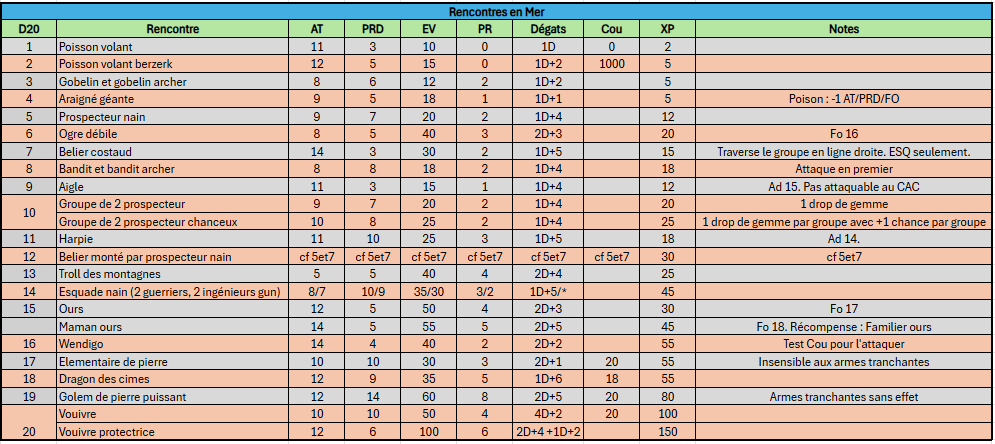
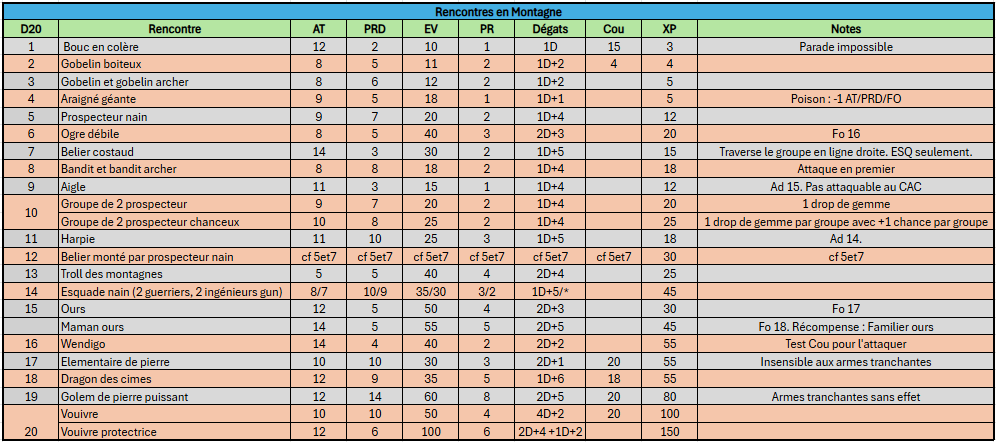
fix : general fixes

Changed region(s): [[0.0, 0.0, 1.0, 1.0]]

diff --git a/src/component/gestion/gestion.component.css b/src/component/gestion/gestion.component.css
@@ -16,6 +16,12 @@
   color: var(--text-main);
 }
 
+p-table::ng-deep{
+  
+  width: 100%;
+  overflow-y: scroll;
+}
+
 .p-datatable-thead > tr > th {
   background-color: var(--bg-secondary);
   color: var(--accent);
@@ -67,6 +73,17 @@
   font-weight: bold;
 }
 
+
+::ng-deep.p-autoComplete{
+    margin-right: 0.5rem;
+}
+
+::ng-deep .p-overlay{
+  background-color: var(--bg-main);
+  color: var(--text-main);
+}
+
+
 /* --- P-BUTTON --- */
 
 .stats-handler{
@@ -111,10 +128,53 @@
   margin-left: 1rem;
 }
 
+.block-flex {
+  display: flex;
+  gap: 2rem;
+  flex-wrap: wrap;
+}
+
 .div-flex {
   display: flex;
   gap: 2rem;
   flex-wrap: wrap;
+  justify-content: space-between;
+  width: 25rem;
+  margin-bottom: 1rem;
+}
+
+.textAsNumberStyle{
+      background-color: var(--bg-secondary);
+    color: var(--text-main);
+    border: 1px solid var(--border);
+    padding: 0.5rem 1rem;
+    border-radius: 6px;
+    font-size: 1rem;
+    width: 13rem;
+    transition: all 0.2s ease;
+    font-family: inherit;
+    box-sizing: border-box;
+}
+
+
+p-dropdown{
+  background-color: var(--bg-secondary);
+    color: var(--text-main);
+    border: 1px solid var(--border);
+    padding: 0.5rem 1rem;
+    border-radius: 6px;
+    font-size: 1rem;
+    width: 13rem;
+    transition: all 0.2s 
+ease;
+    font-family: inherit;
+}
+::ng-deep.p-dropdown{
+    width: 13rem;
+}
+
+::ng-deep.p-dropdown-label{
+    width: 13rem;
 }
 
 .mw-20 {
@@ -124,13 +184,6 @@
 .row{
   flex-direction: row;
 }
-
-
-/* === SIDEBAR STYLING === */
-
-::ng-deep .p-sidebar {
-  background-color: var(--bg-main);
-  color: var(--text-main);
-  border-left: 1px solid var(--border);
-  padding: 2rem;
+p-inputnumber.no-margin::ng-deep{
+  display: contents;
 }

diff --git a/src/component/gestion/gestion.component.html b/src/component/gestion/gestion.component.html
@@ -28,6 +28,7 @@
     <p-button class="m-2" (onClick)="triggerAjouter($event)" label="Hero" icon="pi pi-plus" />
     <p-button class="m-2" (onClick)="goToCombat()" label="Combat" icon="pi pi-caret-right" />
     <p-button class="m-2" (onClick)="triggerAjouterStats($event)" label="Ajouter statistique" icon="pi pi-chart-line" />
+    <p-button class="m-2" (onClick)="resetStorage()" label="Vider le cache" icon="pi pi-exclamation-triangle" />
     </div></div>
             </ng-template>
             <ng-template pTemplate>
@@ -41,7 +42,7 @@
                     <div class="stats-handler"><span class="text-bold">Morts</span> {{ hero['morts']}} <p-button (onClick)="addMort(hero['nom'])" icon="pi pi-plus" class="bt-sm" /> </div>
                     <div>
                         <h3>Equipements</h3>
-                        <div class="div-flex">
+                        <div class="block-flex">
                             <div>
                                 <h4> Equipé </h4>
                                 <div *ngFor="let arme of (armes$ | async)?.armes ??[] | shouldBeEquipe : true">
@@ -74,7 +75,7 @@
             </ng-template>
         </p-splitter>
     </p-tabPanel>
-    <p-tabPanel *ngFor="let joueur of (joueurs ?? [])" [header]="joueur.code">
+    <p-tabPanel *ngFor="let joueur of (joueurs)" [header]="joueur.code">
         <p-splitter [style]="{'height': '40rem'}">
             <ng-template pTemplate>
                 <p-table responsiveLayout="scroll" [scrollable]="true" [tableStyle]="{'min-width':'30rem'}" [value]="(allHeros$ | async) ?? [] | hero:joueur.code">
@@ -111,9 +112,9 @@
         </p-splitter>
     </p-tabPanel>
 </p-tabView>
-<p-sidebar [(visible)]="sidebarVisible">
+<app-sidebar [(visible)]="sidebarVisible">
     <div class="add-panel">
-            <div class="mt-2">
+            <div class="mt-2 div-flex row">
                 <span>Joueur : </span>
                 <p-dropdown 
                 [options]="joueurs" 
@@ -124,11 +125,11 @@
                 placeholder="Joueur"
                 class="w-12" />
             </div>
-            <div class="mt-2">
+            <div class="mt-2 div-flex row">
                 <span>Nom :  </span>
-                <input type="text" pInputText [(ngModel)]="addNom" />
+                <input type="text" class="textAsNumberStyle" pInputText [(ngModel)]="addNom" />
             </div>
-            <div class="mt-2">
+            <div class="mt-2 div-flex row">
                 <span>Origine :  </span>
                 <p-autoComplete
                 [(ngModel)]="addOrigine"
@@ -139,7 +140,7 @@
                 placeholder="origine"
                 (completeMethod)="search($event)"  />
             </div>
-            <div class="mt-2">
+            <div class="mt-2 div-flex row">
                 <span>Metier :  </span>
                 <p-autoComplete
                 [(ngModel)]="addMetier"
@@ -150,23 +151,24 @@
                 placeholder="origine"
                 (completeMethod)="searchMetier($event)"  />
             </div>
-            <div class="mt-2">
+            <div class="mt-2 div-flex row">
                 <span>Niveau :  </span>
-                <p-inputNumber  [(ngModel)]="addNiveau" name="addNiveau" />
+                <p-inputNumber class="no-margin"  [(ngModel)]="addNiveau" name="addNiveau" />
             </div>
-            <div class="mt-2">
+            <div class="mt-2 div-flex row">
                 <span>Or :  </span>
-                <p-inputNumber [(ngModel)]="addOr" name="addOr"/>
+                <p-inputNumber class="no-margin" [(ngModel)]="addOr" name="addOr"/>
             </div>
-            <div class="mt-2"> 
+            <div class="mt-2 div-flex  row"> 
                 <span>Point de destin : </span>
-                <p-inputNumber  [(ngModel)]="addDestin" name="addDestin"/>
+                <p-inputNumber class="no-margin" [(ngModel)]="addDestin" name="addDestin"/>
             </div>
-            <div class="mt-2"> 
+            
+            <div class="mt-2 div-flex row"> 
                 <p-button (onClick)="valider()" >Valider</p-button>
             </div>
     </div>
-</p-sidebar>
+</app-sidebar>
 <p-sidebar [(visible)]="sidebarStuffVisible">
     <div class="add-panel">
             <div class="mt-2">

diff --git a/src/app/services/hero.service.ts b/src/app/services/hero.service.ts
@@ -19,8 +19,12 @@ export class HerosService {
   
   //#region All
 
+  async resetStorage(){
+    this.storage.clear();
+  }
+
   async getAll(){
-    if(!this.storage.get(StorageKeys.HEROS)){
+    if(!this.storage.get<DocumentData[]>(StorageKeys.HEROS)){
           const heros = (await getDocs(query(collection(this.firestore,'heros')))).docs.map((entries) => entries.data());
           this.storage.set<DocumentData[]>(StorageKeys.HEROS,heros);
     }
@@ -29,9 +33,10 @@ export class HerosService {
   }
 
   async getAllFromSession(){
-    if(!this.storage.get<DocumentData[]>(StorageKeys.HEROS)){
-        await this.getAll();
-    }
+     if(!this.storage.get<DocumentData[]>(StorageKeys.HEROS)){
+         await this.getAll();
+     }
+    await this.getAll();
     
     return this.storage
       .get<DocumentData[]>(StorageKeys.HEROS)
@@ -44,7 +49,7 @@ export class HerosService {
   }
 
   async getAllOrigine(){
-     if(!this.storage.get(StorageKeys.HERO_ORIGINES)){
+     if(!this.storage.get<DocumentData[]>(StorageKeys.HERO_ORIGINES)){
           const herosTypes = (await getDocs(query(collection(this.firestore,'origines')))).docs.map((entries) => entries.data());
           this.storage.set<DocumentData[]>(StorageKeys.HERO_ORIGINES,herosTypes);
     }
@@ -53,8 +58,8 @@ export class HerosService {
   }
 
   async getAllMetier(){
-     if(!this.storage.get(StorageKeys.HERO_METIERS)){
-          const herosTypes = (await getDocs(query(collection(this.firestore,'metier')))).docs.map((entries) => entries.data());
+     if(!this.storage.get<DocumentData[]>(StorageKeys.HERO_METIERS)){
+          const herosTypes = (await getDocs(query(collection(this.firestore,'metiers')))).docs.map((entries) => entries.data());
           this.storage.set<DocumentData[]>(StorageKeys.HERO_METIERS,herosTypes);
     }
     

diff --git a/src/component/common/sidebar/sidebar.component.css b/src/component/common/sidebar/sidebar.component.css
@@ -1,8 +1,8 @@
 .custom-sidebar {
   position: fixed;
   top: 0;
-  left: -320px;
-  width: 300px;
+  left: -520px;
+  width: 500px;
   height: 100vh;
   background-color: var(--bg-secondary);
   color: var(--text-main);
@@ -14,6 +14,10 @@
 
 .custom-sidebar.visible {
   left: 0;
+}
+
+p-inputnumber.no-margin::ng-deep{
+  display: contents;
 }
 
 .sidebar-content {

diff --git a/src/component/gestion/gestion.component.ts b/src/component/gestion/gestion.component.ts
@@ -21,6 +21,7 @@ import { HeroArmes, HeroArmures } from '../model/item';
 import { ConfirmationService,Message, MessageService } from 'primeng/api';
 import { Router } from '@angular/router';
 import { ToastModule } from 'primeng/toast';
+import { SidebarComponent } from '../common/sidebar/sidebar.component';
 
 @Component({
   selector: 'app-ingame',
@@ -28,7 +29,7 @@ import { ToastModule } from 'primeng/toast';
   imports: [CommonModule, ToastModule, TabViewModule, SplitterModule , 
     TableModule, InputSwitchModule, FormsModule, AutoCompleteModule, DropdownModule, ButtonModule,
     ReactiveFormsModule,InputNumberModule, SidebarModule,MultiSelectModule,ConfirmDialogModule, 
-    HeroPipe,HeroTypePipe, IsFromSessionPipe, ShouldBeEquipePipe],
+    HeroPipe,HeroTypePipe, IsFromSessionPipe, ShouldBeEquipePipe,SidebarComponent ],
     providers:[ConfirmationService, MessageService],
   templateUrl: './gestion.component.html',
   styleUrl: './gestion.component.css'
@@ -105,6 +106,10 @@ export class GestionComponent {
     armesService.getAllArmures().then(snap => {
       this.herosArmuresSelect = snap;
     });
+  }
+
+  resetStorage(){
+    this.herosService.resetStorage();
   }
 
   handleSelect(hero:string){

diff --git a/src/app/services/statistiques.service.ts b/src/app/services/statistiques.service.ts
@@ -91,7 +91,7 @@ export class StatistiquesService {
 
   async getMetier(joueur:string, slice : number | null = null){    
     let key : string = StorageKeys.JOUEURS_METIERS+"_"+joueur;
-    if(!this.storage.getFromString(key)){
+   if(!this.storage.getFromString(key)){
 
     let heros = await this.herosService.getAll();
     let metiers = await this.getAllMetiers();
@@ -104,6 +104,9 @@ export class StatistiquesService {
     }
 
     heros.forEach((hero) =>{
+      if(metiers.find(x=>x['code'] == hero['metier']) === undefined){
+        console.log(hero);
+      }
       libelle = metiers.find(x=>x['code'] == hero['metier'])!['libelle'] ?? hero['metier'];
       if(statistiques.find(x=>x.code == libelle) === undefined){
         statistiques.push({code:libelle,valeur:0});

diff --git a/src/component/gestion/combat/combat.component.ts b/src/component/gestion/combat/combat.component.ts
@@ -327,7 +327,10 @@ export class CombatComponent {
     this.autoCompleteMobs = this.mobsToSearch ?? [];
     for (let i = 0; i < this.mobsToSearch.length; i++) {
       let type = this.mobsToSearch[i];
-      if (type['libelle'].toLowerCase().indexOf(query.toLowerCase()) == 0) {
+      if(type['libelle'] === undefined){
+        console.log(type);
+      }
+      if (type['libelle']?.toLowerCase().indexOf(query.toLowerCase()) == 0) {
         filtered.push(type);
       }
     }

diff --git a/src/styles.css b/src/styles.css
@@ -16,6 +16,10 @@ body {
   color: var(--text-main);
 }
 
+* {
+  scrollbar-width: thin;
+  scrollbar-color: rgba(255,255,255,.35) transparent;
+}
 
 h1 {
   font-size: 2.8rem;

diff --git a/src/app/services/mob.service.ts b/src/app/services/mob.service.ts
@@ -51,6 +51,8 @@ export class MobsService {
       armure:mob.armure,
       experience:mob.experience,
     });
+
+    await this.storage.addElementInStorageGroup(StorageKeys.MOBS, mob);
   }
 
   async bulkInsert(){

diff --git a/src/component/in-game/creation/origine/origine.component.ts b/src/component/in-game/creation/origine/origine.component.ts
@@ -4,7 +4,6 @@ import { RouterOutlet } from '@angular/router';
 import { TreeTableModule } from 'primeng/treetable';
 import { CreationHelper, Origine } from '../../../model/creation';
 import { TreeNode } from 'primeng/api';
-import { SidebarModule } from 'primeng/sidebar';
 import { ButtonModule } from 'primeng/button';
 import { SidebarComponent } from '../../../common/sidebar/sidebar.component';
 